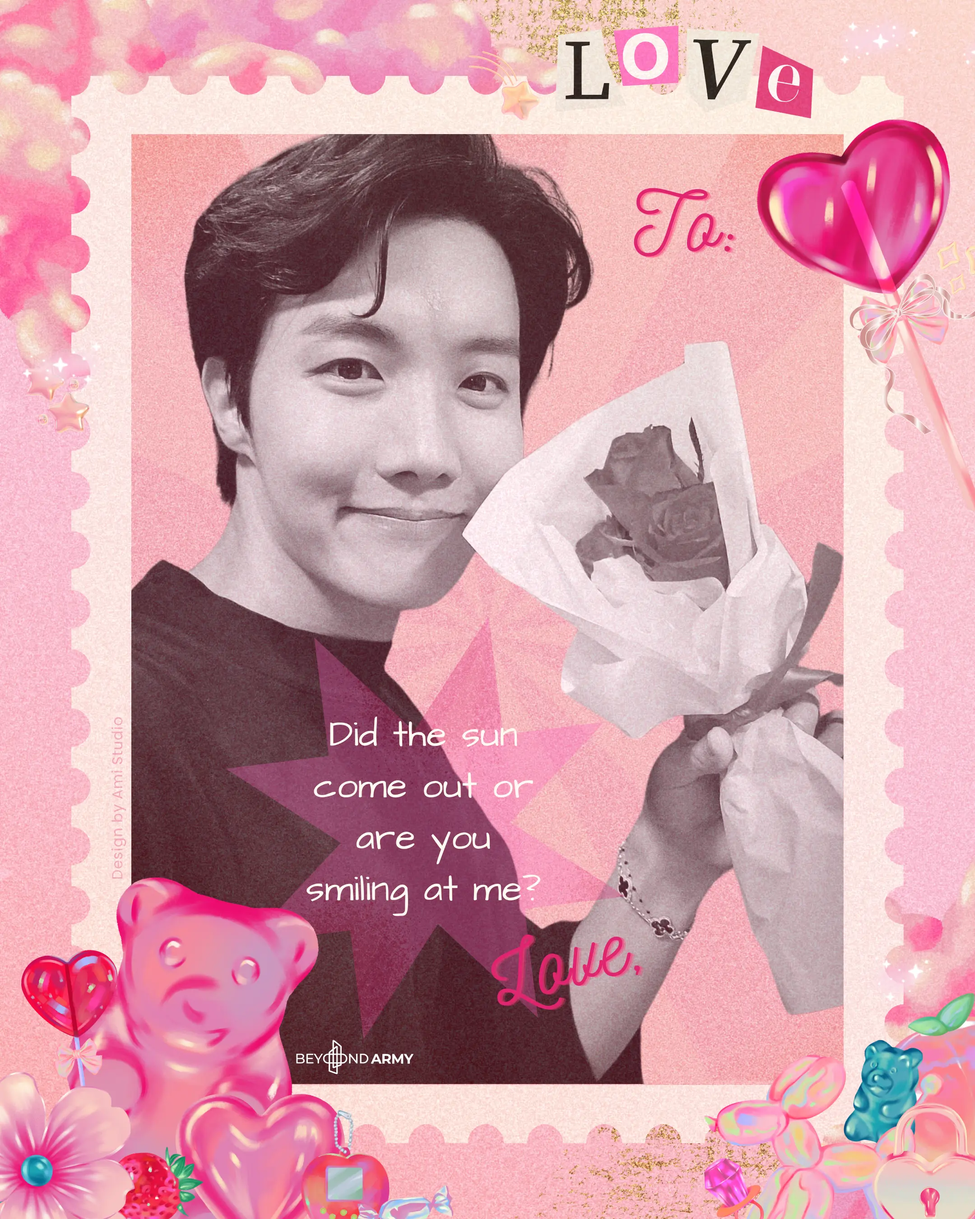
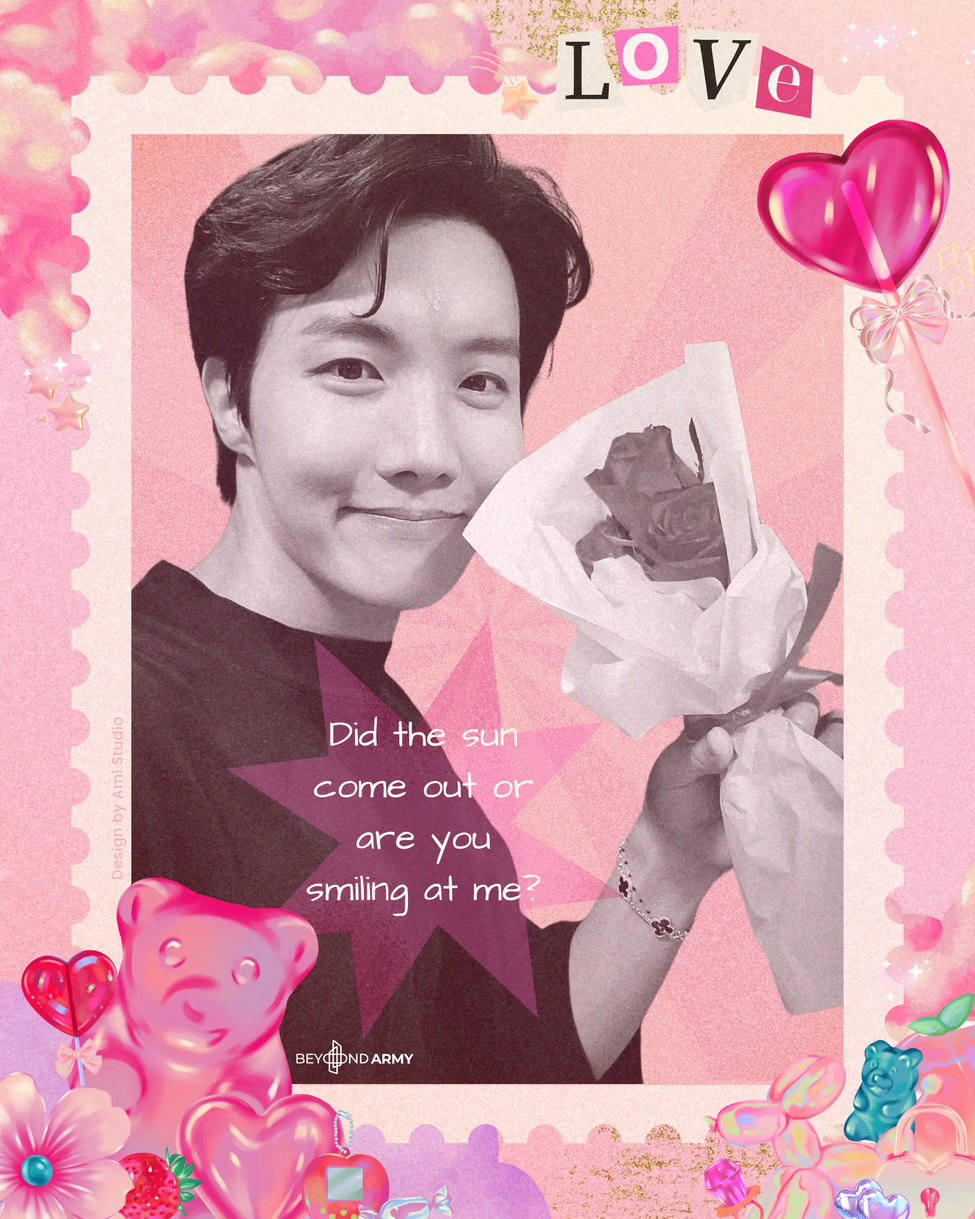
Adding styles

diff --git a/src/components/ValentinDay/data.js b/src/components/ValentinDay/data.js
@@ -18,58 +18,58 @@ export const btsImg = {
   jungkookflower,
 };
 
-const commonStylesDiv1 = " font-bold relative h-[500px] w-[400px] shadow-lg border-lg rounded-lg outline-none focus:outline-none bg-no-repeat bg-cover bg-center";
+const commonStylesDiv1 = "font-flower relative h-[500px] w-[400px] shadow shadow-lg border-lg rounded-lg outline-none focus:outline-none bg-no-repeat bg-cover bg-center";
 
-const commonTextStyles = "  text-pink-700 text-2xl italic absolute";
-const commonPStyles = "font-bold text-pink-700 italic text-2xl absolute";
+const commonTextStyles = " font-Nickainley text-pink-500 text-xl  absolute";
+const commonPStyles = "font-Nickainley text-pink-500  text-xl absolute";
 
 export const membersBts = {
   btsflower: {
     div1: `${commonStylesDiv1}`,
     div2: "flex flex-col gap-20",
-    div3: `${commonTextStyles} top-[64px] left-[110px]`,
-    p: `${commonPStyles} right-[37px] top-[145px] rotate-[-17deg]`,
+    div3: `${commonTextStyles} top-[60px] left-[60px]`,
+    p: `${commonPStyles} right-[55px] top-[145px] `,
   },
   rmflower: {
     div1: `${commonStylesDiv1}`,
     div2: "flex flex-col gap-20",
-    div3: `${commonTextStyles} top-[62px] left-[110px] `,
-    p: `${commonPStyles} bottom-[203px] left-[109px] rotate-[-23deg]`,
+    div3: `${commonTextStyles} top-[68px] left-[59px] `,
+    p: `${commonPStyles} bottom-[250px] left-[53px]`,
   },
   jinflower: {
     div1: `${commonStylesDiv1}`,
     div2: "flex flex-col gap-20",
-    div3: `${commonTextStyles} top-[62px] right-[58px]`,
-    p: `${commonPStyles} right-[55px] bottom-[212px] rotate-[-17deg]`,
+    div3: `${commonTextStyles} top-[80px] right-[80px]`,
+    p: `${commonPStyles} right-[55px] bottom-[260px] `,
   },
   sugaflower: {
     div1: `${commonStylesDiv1}`,
     div2: "flex flex-col gap-20",
-    div3: `${commonTextStyles} top-[62px] left-[110px] `,
-    p: `${commonPStyles} bottom-[238px] left-[100px] rotate-[-20deg]`,
+    div3: `${commonTextStyles} top-[65px] left-[60px] `,
+    p: `${commonPStyles} bottom-[260px] left-[60px] `,
   },
   jhopeflower: {
     div1: `${commonStylesDiv1}`,
     div2: "flex flex-col gap-20",
-    div3: `${commonTextStyles} mt-[77px] right-[45px]  `,
-    p: `${commonPStyles} bottom-[77px] right-[89px] rotate-[-22deg]`,
+    div3: `${commonTextStyles} top-[90px] right-[80px] `,
+    p: `${commonPStyles} bottom-[90px] right-[95px]`,
   },
   jiminflower: {
     div1: `${commonStylesDiv1}`,
     div2: "flex flex-col gap-20",
-    div3: `${commonTextStyles} top-[69px] left-[107px]`,
-    p: `${commonPStyles} bottom-[105px] right-[70px] rotate-[-19deg]`,
+    div3: `${commonTextStyles} top-[68px] left-[60px]`,
+    p: `${commonPStyles} bottom-[105px] right-[70px] `,
   },
   vflower: {
     div1: `${commonStylesDiv1}`,
     div2: "flex flex-col gap-20",
-    div3: `${commonTextStyles} bottom-[217px] right-[130px] text-2xl `,
-    p: `${commonPStyles} bottom-[90px] right-[82px] rotate-[-19deg] `,
+    div3: `${commonTextStyles} bottom-[235px] right-[130px]  `,
+    p: `${commonPStyles} bottom-[130px] right-[82px]  `,
   },
   jungkookflower: {
     div1: `${commonStylesDiv1}`,
     div2: "flex flex-col gap-20",
-    div3: `${commonTextStyles} top-[70px] right-[66px] `,
-    p: `${commonPStyles}  bottom-[208px] right-[50px] rotate-[-19deg]`,
+    div3: `${commonTextStyles} top-[80px] right-[90px] `,
+    p: `${commonPStyles}  bottom-[230px] right-[60px] `,
   },
 };

diff --git a/tailwind.config.js b/tailwind.config.js
@@ -43,7 +43,7 @@ module.exports = {
         vlogo: "url('/src/components/img/vpassport.webp')",
         jinlogo: "url('/src/components/img/jinlogo2.webp')",
         v2logo: "url('/src/components/img/virthday.webp')",
-        btslogo: "url('/src/components/img/Valentin.jpg')",
+        btslogo: "url('/src/components/img/Valentine3.webp')",
 
         //TODO: HOBIPALOOZA
         backhobi2:
@@ -103,7 +103,7 @@ module.exports = {
 
        //TODO: BalenTinS Day
        BackgroundV: 
-         "url('/src/components/ValentinDay/assetsBts/Background BalenTinS.webp')"
+         "url('/src/components/ValentinDay/assetsBts/BackgroundBalenTinS.webp')"
 
 
       },
@@ -130,6 +130,8 @@ module.exports = {
         virthday: ["Unkempt", "serif"],
         virthday2: ["Anton", "serif"],
         virthday3: ["Permanent Marker", "serif"],
+        Nickainley: ["Nickainley", "sans-serif"],
+        
       },
       colors: {
         army: "rgb(0,74,173)",

diff --git a/src/components/ValentinDay/Card.jsx b/src/components/ValentinDay/Card.jsx
@@ -28,8 +28,8 @@ export default function Card() {
                        id="print"
                      >
                        <div className={membersBts[diseño].div2}>
-                         <div className={membersBts[diseño].div3}>{name}</div>
-                         <p className={membersBts[diseño].p}> {content}</p>
+                         <div className={membersBts[diseño].div3}>To: {name}</div>
+                         <p className={membersBts[diseño].p}>From: {content}</p>
                        </div>
                      </div>
 
@@ -49,7 +49,7 @@ export default function Card() {
         <button
           type="button"
           onClick={handleResetContent}
-          className="bg-red-500 text-white px-4 py-2 rounded-lg hover:bg-red-700 "
+          className="bg-pink-600 text-white px-4 py-2 rounded-lg hover:bg-red-700 "
         >
           Restart
         </button>

diff --git a/src/components/ValentinDay/ListV.jsx b/src/components/ValentinDay/ListV.jsx
@@ -7,7 +7,7 @@ export default function ListV() {
   return (
     <div>
       <div className="my-5">
-        <label className="text-sm mb-2 text-white">Design</label>
+        <label className="text-sm mb-4 mt-6 text-white">  </label>
 
         {/* <select
           id="diseno"
@@ -28,7 +28,7 @@ export default function ListV() {
             onChange={usuarioGenerado}
             className="shadow border rounded w-full py-2 px-3 text-gray-700  "
           >
-            <option value="">Select your artwork </option>
+            <option value="">Select BTS or a member </option>
             <option value="btsflower">BTS</option>
             <option value="rmflower">Nam</option>
             <option value="jinflower">Jin</option>

diff --git a/src/components/ValentinDay/Formulario.jsx b/src/components/ValentinDay/Formulario.jsx
@@ -47,7 +47,7 @@ export default function Formulario() {
 
   return (
     <div className="flex  ">
-      <div className="border border-gray-300 shadow-lg relative flex flex-col w-full bg-purple-100 outline-none focus:outline-none rounded-lg p-5">
+      <div className="border border-gray-300 shadow-lg relative flex flex-col w-full bg-pink-100 outline-none focus:outline-none rounded-lg p-5">
         <div className="flex items-center justify-center mt-5">
           <h3 className="text-2xl font-providence font-bold text-purple-800">
             Valentin's Day with BTS and Army

diff --git a/src/views/BalenTineS.jsx b/src/views/BalenTineS.jsx
@@ -10,7 +10,7 @@ export default function BalenTineS() {
   const { resultado, cargando} = useRequestInfo()
 
   return (
-    <div className="flex justify-center items-center bg-BackgroundV bg-cover h-screen">
+    <div className="flex justify-center items-center  bg-BackgroundV bg-cover bg-no-repeat  h-screen w-screen">
      <div className="flex flex-col items-center">
       { cargando ? <Formulario/> : resultado && <Card/>}
 
